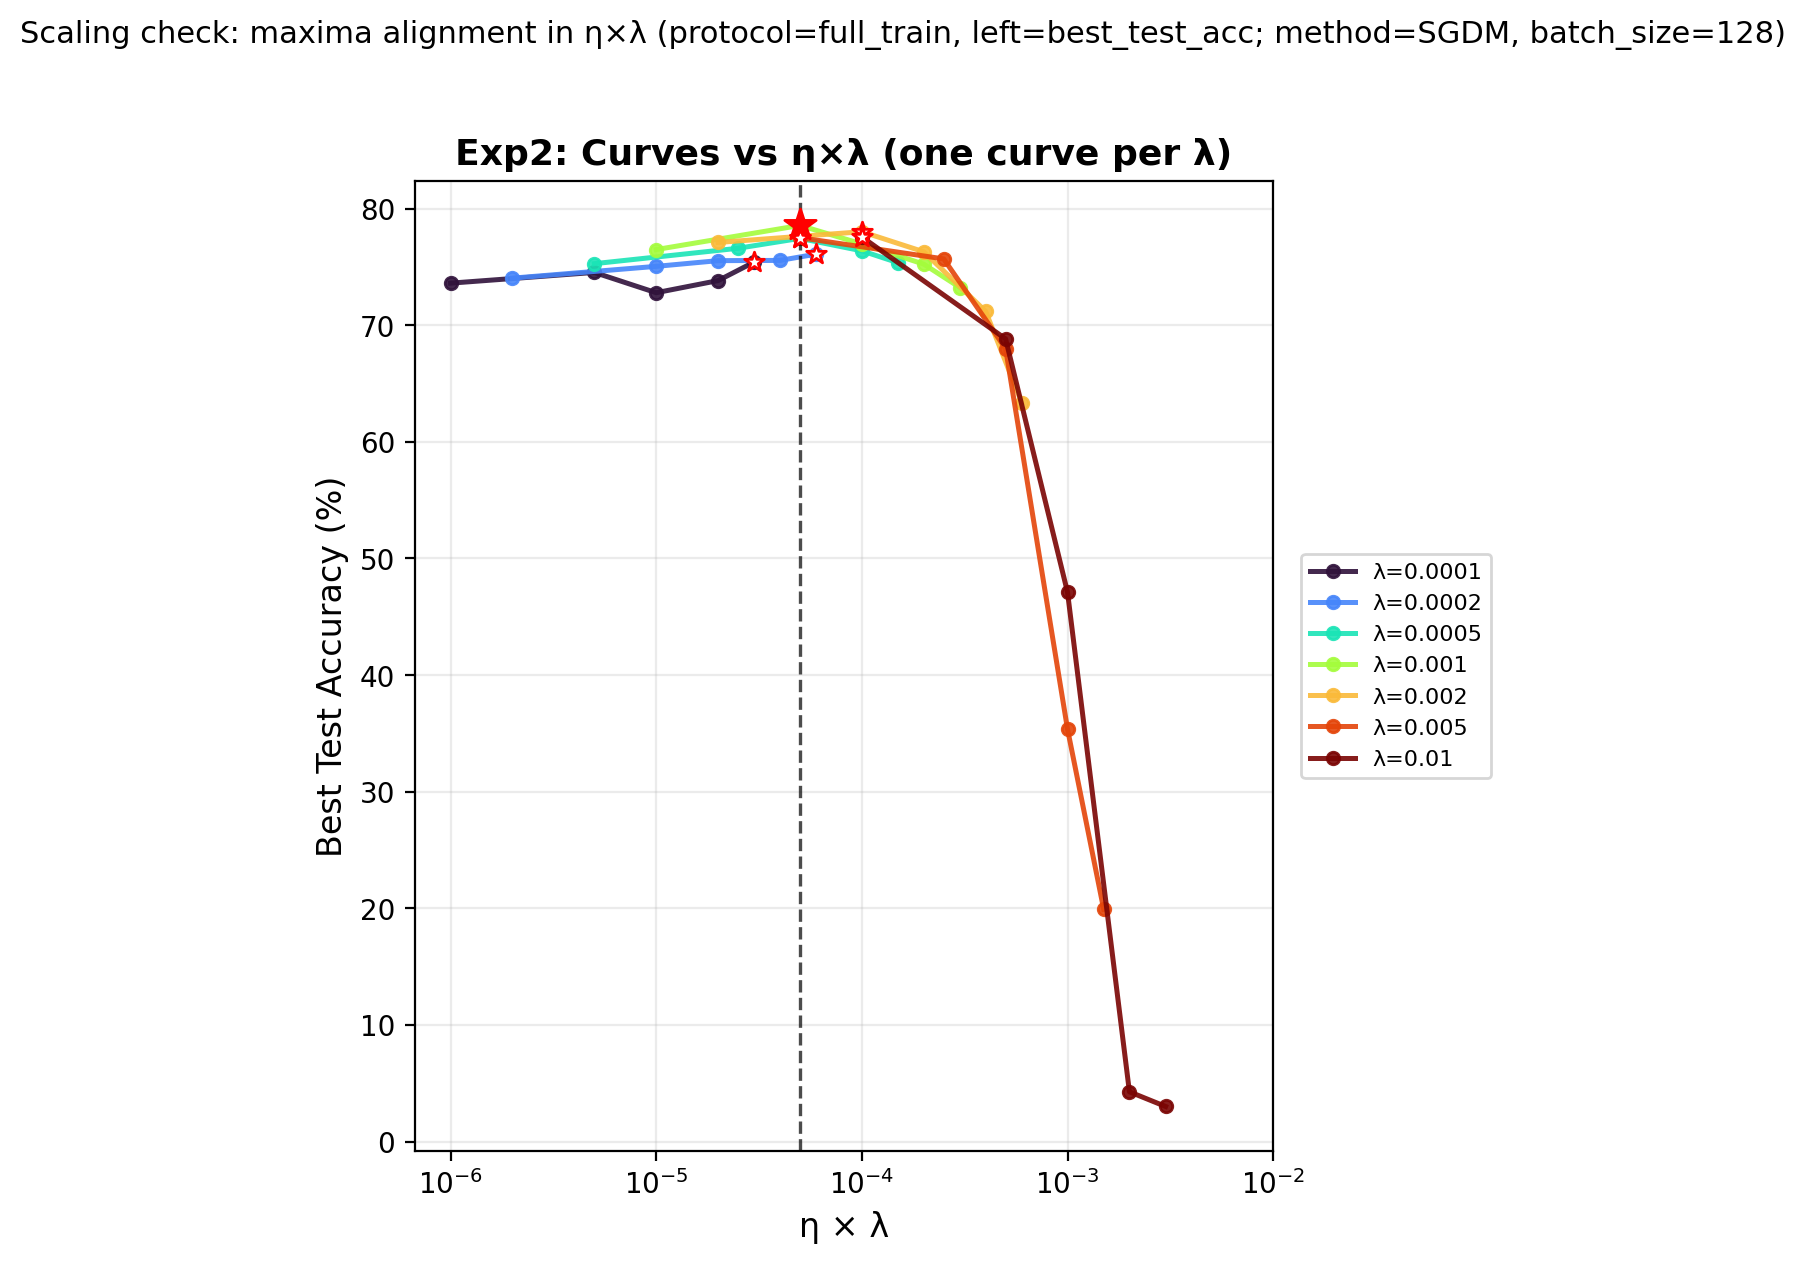
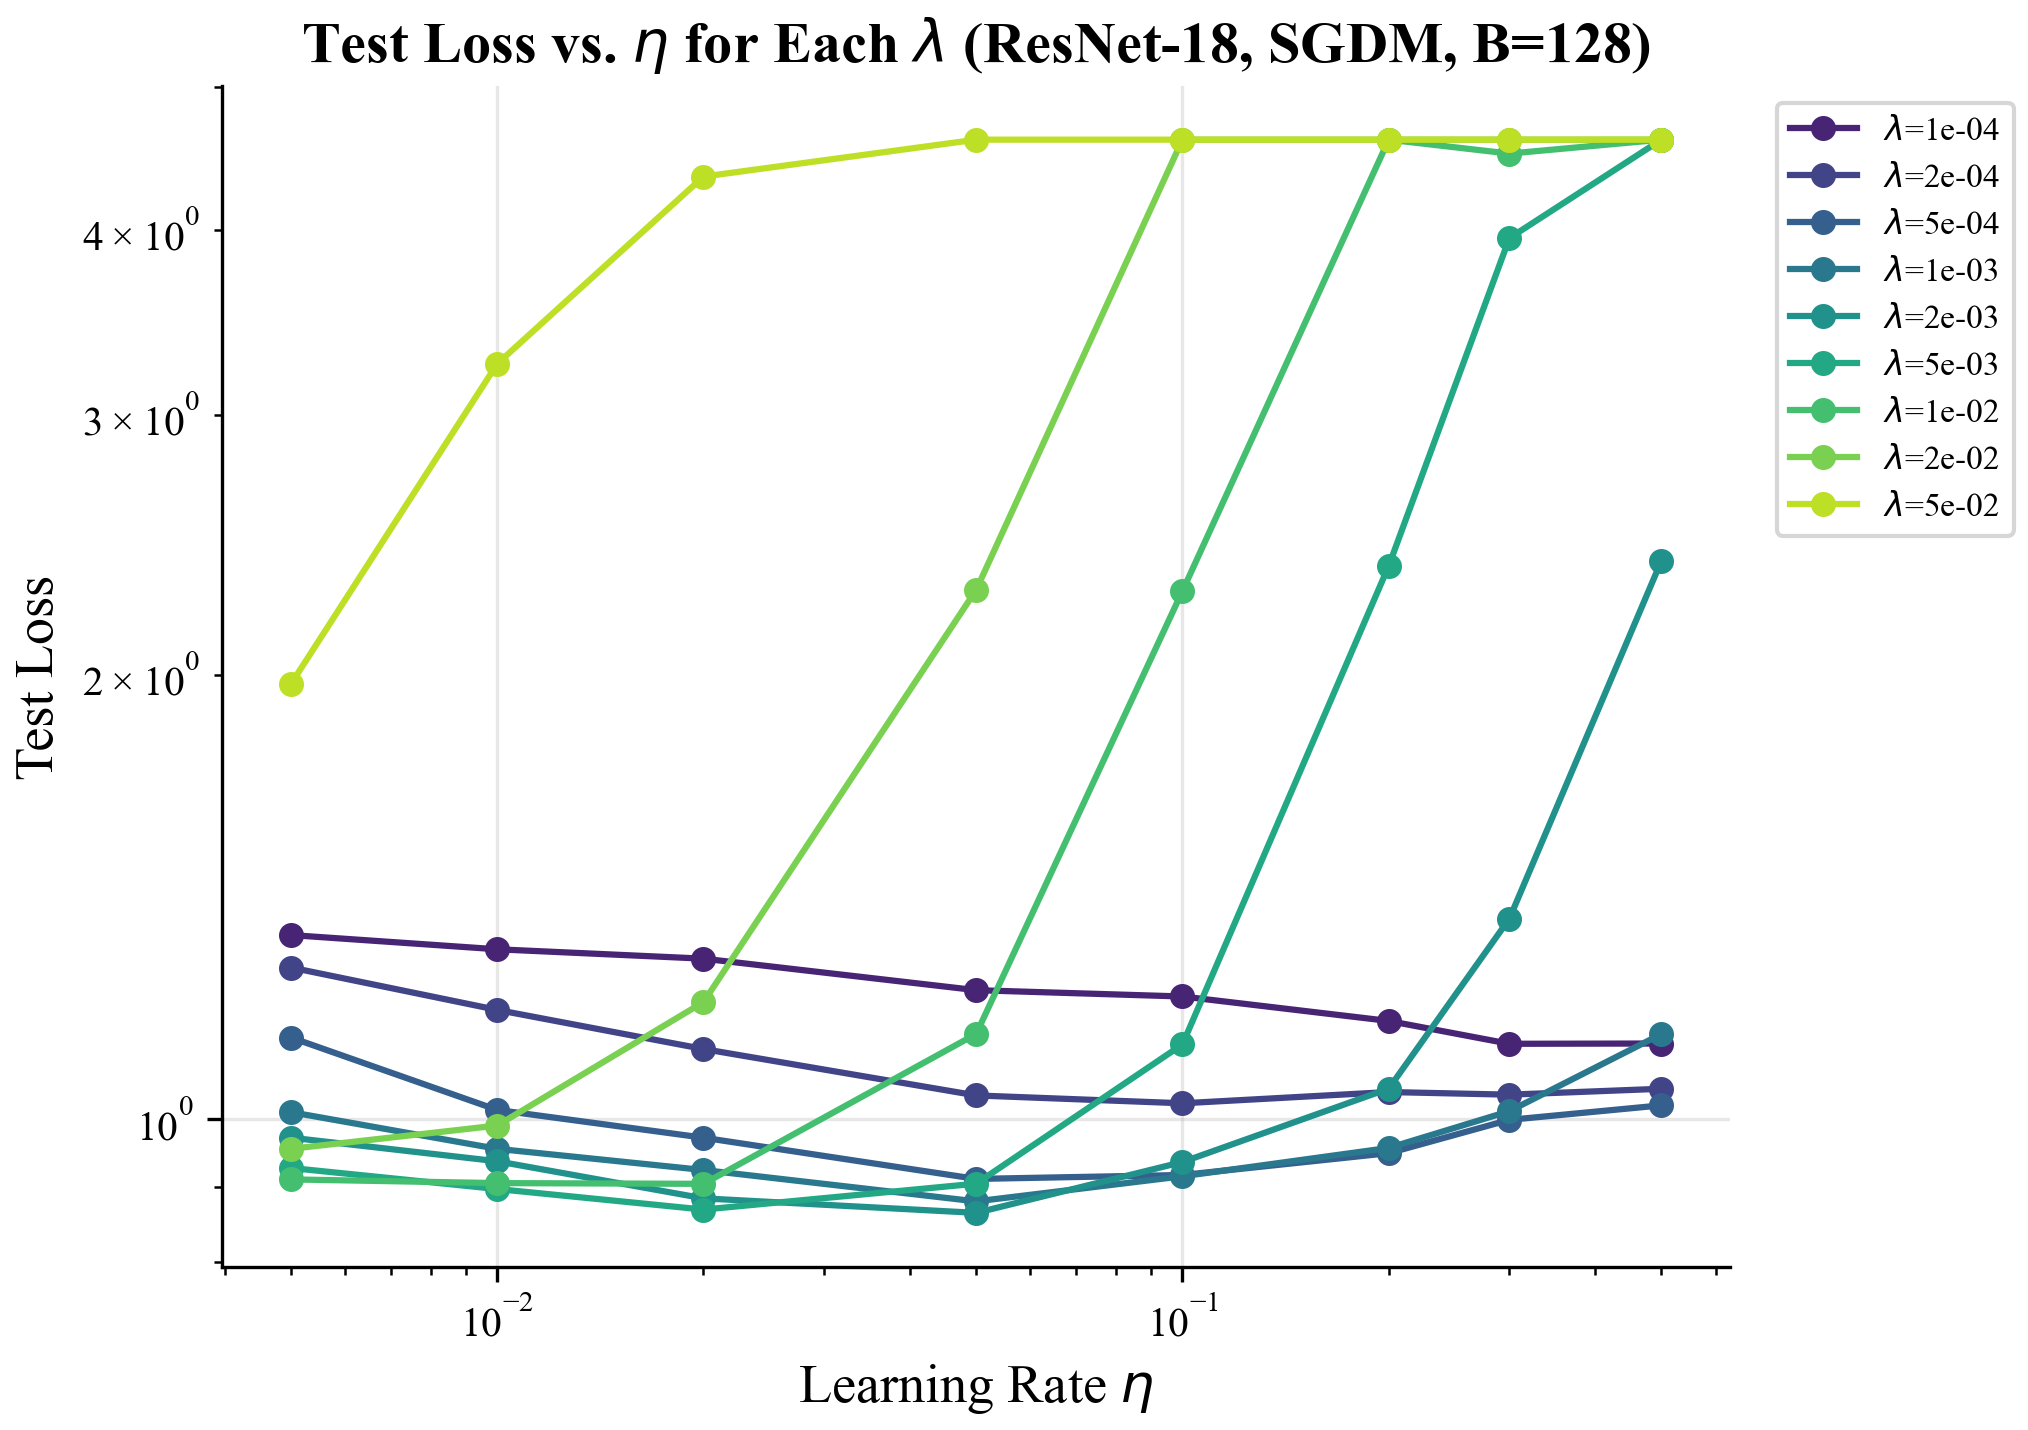
temp update

diff --git a/rebuttal/generate_figures.py b/rebuttal/generate_figures.py
@@ -68,16 +68,37 @@ def load_all():
     return result
 
 
-def mean_std_df(dfs, filt_fn):
+def mean_std_df(dfs, filt_fn, metric='best_test_acc'):
     """Given list of DataFrames, filter each, group by key columns, return mean/std."""
-    filtered = [filt_fn(df) for df in dfs]
+    filtered = [filt_fn(df) for df in dfs if metric in df.columns]
+    if not filtered:
+        return pd.DataFrame()
     combined = pd.concat(filtered, ignore_index=True)
     if combined.empty:
         return combined
     group_cols = [c for c in ['method', 'batch_size', 'lr', 'wd', 'momentum'] if c in combined.columns]
-    agg = combined.groupby(group_cols)['best_test_acc'].agg(['mean', 'std', 'count']).reset_index()
+    agg = combined.groupby(group_cols)[metric].agg(['mean', 'std', 'count']).reset_index()
     agg['std'] = agg['std'].fillna(0)
     return agg
+
+
+def load_ext_data():
+    """Load extended Exp2 data (with final_test_loss) for ResNet-18."""
+    base = Path('.')
+    paths = [
+        base / 'rebuttal/results/results_resnet18_seed42_exp2_ext.csv',
+        base / 'rebuttal/results/results_resnet18_seed42_exp2_ext2.csv',
+        base / 'rebuttal/results/results_resnet18_seed123_exp2_ext.csv',
+    ]
+    dfs = []
+    for p in paths:
+        if p.exists():
+            df = pd.read_csv(p)
+            df['wd'] = df['wd'].astype(float)
+            df['lr'] = df['lr'].astype(float)
+            df['momentum'] = df['momentum'].astype(float)
+            dfs.append(df)
+    return dfs
 
 
 # ── Exp 1: Stability Boundary Ordering ──────────────────────────────────────
@@ -230,6 +251,79 @@ def plot_exp2_optimal_wd(all_data):
     print('Saved fig4_exp2_optimal_wd_vs_lr')
 
 
+EXT_LRS = [0.005, 0.01, 0.02, 0.05, 0.1, 0.2, 0.3, 0.5]
+EXT_WDS = [1e-4, 2e-4, 5e-4, 1e-3, 2e-3, 5e-3, 1e-2, 2e-2, 5e-2]
+
+
+def filt_exp2_ext(df):
+    sub = df[(df['method'].isin(['SGDM', 'SGDM+WD'])) & (df['batch_size'] == 128)].copy()
+    sub = sub[sub['lr'].isin(EXT_LRS) & sub['wd'].isin(EXT_WDS)]
+    return sub
+
+
+def plot_exp2_test_loss_curves(ext_dfs):
+    """Reviewer 9i84: test loss vs η for each λ, extended grid, ResNet-18 only."""
+    fig, ax = plt.subplots(figsize=(7, 5))
+    wd_colors = plt.cm.viridis(np.linspace(0.1, 0.9, len(EXT_WDS)))
+
+    agg = mean_std_df(ext_dfs, filt_exp2_ext, metric='final_test_loss')
+    if agg.empty:
+        print('No ext data available for test loss plot')
+        plt.close(fig)
+        return
+
+    for i, wd in enumerate(EXT_WDS):
+        sub = agg[np.isclose(agg['wd'], wd)].sort_values('lr')
+        if sub.empty:
+            continue
+        ax.plot(sub['lr'], sub['mean'],
+                marker='o', color=wd_colors[i],
+                label=f'$\\lambda$={wd:.0e}', linewidth=1.5, markersize=5)
+
+    ax.set_xscale('log')
+    ax.set_yscale('log')
+    ax.set_xlabel(r'Learning Rate $\eta$')
+    ax.set_ylabel('Test Loss')
+    ax.set_title('Test Loss vs. $\\eta$ for Each $\\lambda$ (ResNet-18, SGDM, B=128)',
+                 fontweight='bold')
+    ax.legend(bbox_to_anchor=(1.02, 1), loc='upper left', fontsize=8)
+    fig.tight_layout()
+    fig.savefig(OUT / 'response_to_reviewer_9i84.png')
+    plt.close(fig)
+    print('Saved response_to_reviewer_9i84')
+
+
+def plot_exp2_scaling_curves_loss(ext_dfs):
+    """Original format but with test loss y-axis. ResNet-18 only (others lack test loss)."""
+    fig, ax = plt.subplots(figsize=(7, 5))
+    wd_colors = plt.cm.viridis(np.linspace(0.1, 0.9, len(EXP2_WDS)))
+
+    agg = mean_std_df(ext_dfs, filt_exp2, metric='final_test_loss')
+    if agg.empty:
+        print('No data for scaling curves loss')
+        plt.close(fig)
+        return
+
+    for i, wd in enumerate(EXP2_WDS):
+        sub = agg[np.isclose(agg['wd'], wd)].sort_values('lr')
+        if sub.empty:
+            continue
+        ax.plot(sub['lr'], sub['mean'],
+                marker='o', color=wd_colors[i],
+                label=f'$\\lambda$={wd:.0e}', linewidth=1.5, markersize=5)
+
+    ax.set_xscale('log')
+    ax.set_xlabel(r'Learning Rate $\eta$')
+    ax.set_ylabel('Test Loss')
+    ax.set_title(r'Test Loss vs. $\eta$ for Each $\lambda$ (ResNet-18, SGDM, B=128)',
+                 fontweight='bold')
+    ax.legend(bbox_to_anchor=(1.02, 1), loc='upper left', fontsize=8)
+    fig.tight_layout()
+    fig.savefig(OUT / 'exp2_scaling_curves_loss.png')
+    plt.close(fig)
+    print('Saved exp2_scaling_curves_loss')
+
+
 # ── Exp 3: Batch Size Scaling ───────────────────────────────────────────────
 EXP3_BS = [64, 128, 256, 512]
 EXP3_LR_MAP = {64: 0.05, 128: 0.1, 256: 0.2, 512: 0.4}
@@ -315,6 +409,43 @@ def plot_exp3_optimal_wd(all_data):
     print('Saved fig6_exp3_optimal_wd_vs_bs')
 
 
+# ── Exp 3: λ*×η vs Batch Size ────────────────────────────────────────────────
+def plot_exp3_lambda_eta_product(all_data):
+    """Show that optimal λ*×η increases with batch size."""
+    fig, ax = plt.subplots(figsize=(6, 4))
+
+    for arch, dfs in all_data.items():
+        agg = mean_std_df(dfs, filt_exp3)
+        if agg.empty:
+            continue
+        products = []
+        for bs in EXP3_BS:
+            lr = EXP3_LR_MAP[bs]
+            sub = agg[(agg['batch_size'] == bs) & np.isclose(agg['lr'], lr)]
+            if not sub.empty:
+                best_idx = sub['mean'].idxmax()
+                opt_wd = sub.loc[best_idx, 'wd']
+                products.append((bs, opt_wd * lr))
+        if products:
+            bss, prods = zip(*products)
+            ax.plot(bss, prods, marker='o', label=arch, linewidth=2, markersize=7,
+                    color=ARCH_COLORS[arch])
+
+    ax.set_xscale('log', base=2)
+    ax.set_yscale('log')
+    ax.set_xlabel('Batch Size B')
+    ax.set_ylabel(r'$\lambda \times \eta$')
+    ax.set_title(r'$\lambda \times \eta$ Increases with Batch Size',
+                 fontweight='bold')
+    ax.set_xticks(EXP3_BS)
+    ax.set_xticklabels([str(b) for b in EXP3_BS])
+    ax.legend()
+    fig.tight_layout()
+    fig.savefig(OUT / 'fig4_exp3_lambda_eta_product.png')
+    plt.close(fig)
+    print('Saved fig4_exp3_lambda_eta_product')
+
+
 # ── Markdown tables ──────────────────────────────────────────────────────────
 def generate_markdown_tables(all_data):
     """Write all summary tables to a single markdown file."""
@@ -386,5 +517,11 @@ if __name__ == '__main__':
     plot_exp2_optimal_wd(all_data)
     plot_exp3_per_arch(all_data)
     plot_exp3_optimal_wd(all_data)
+    plot_exp3_lambda_eta_product(all_data)
     generate_markdown_tables(all_data)
+
+    ext_dfs = load_ext_data()
+    print(f'Extended Exp2 data: {len(ext_dfs)} files loaded')
+    plot_exp2_test_loss_curves(ext_dfs)
+
     print(f'\nAll figures saved to {OUT.resolve()}')

diff --git a/rebuttal/run_rebuttal.py b/rebuttal/run_rebuttal.py
@@ -71,7 +71,7 @@ def run_single_experiment_worker(model_name, method, batch_size, lr, wd, momentu
 
     print(f"[{model_name}] {method} | BS={batch_size} | LR={lr} | WD={wd} | Mom={momentum}")
 
-    best_test_acc, final_test_acc, final_train_loss = train_model(
+    best_test_acc, final_test_acc, final_train_loss, final_test_loss = train_model(
         model, train_loader, test_loader, optimizer, scheduler,
         device, epochs=epochs, use_amp=use_amp
     )
@@ -84,7 +84,8 @@ def run_single_experiment_worker(model_name, method, batch_size, lr, wd, momentu
         'momentum': momentum,
         'final_test_acc': final_test_acc,
         'final_train_loss': final_train_loss,
-        'best_test_acc': best_test_acc
+        'best_test_acc': best_test_acc,
+        'final_test_loss': final_test_loss
     }
 
 
@@ -124,8 +125,8 @@ def experiment_set_2(gpu_ids, epochs=100, seed=42, use_amp=True, logger=None):
     batch_size = 128
     momentum = 0.9
     method = 'SGDM'
-    lr_values = [0.01, 0.05, 0.1, 0.2, 0.3]
-    wd_values = [1e-4, 2e-4, 5e-4, 1e-3, 2e-3, 5e-3, 1e-2]
+    lr_values = [0.005, 0.01, 0.02, 0.05, 0.1, 0.2, 0.3, 0.5]
+    wd_values = [1e-4, 2e-4, 5e-4, 1e-3, 2e-3, 5e-3, 1e-2, 2e-2, 5e-2]
 
     tasks = []
     for lr, wd in product(lr_values, wd_values):
@@ -174,7 +175,8 @@ def save_results(results, output_file, logger=None):
     if not results:
         return
     fieldnames = ['method', 'batch_size', 'lr', 'wd', 'momentum',
-                  'final_test_acc', 'final_train_loss', 'best_test_acc']
+                  'final_test_acc', 'final_train_loss', 'best_test_acc',
+                  'final_test_loss']
     file_exists = os.path.exists(output_file)
     Path(output_file).parent.mkdir(parents=True, exist_ok=True)
     with open(output_file, 'a', newline='') as f:
@@ -203,6 +205,8 @@ def main():
     parser.add_argument('--use_amp', action='store_true', default=True)
     parser.add_argument('--workers_per_gpu', type=int, default=1,
                         help='Number of parallel workers per GPU (increase for low-utilization models)')
+    parser.add_argument('--suffix', type=str, default='',
+                        help='Suffix appended to output filename (e.g. "_ext" -> results_resnet18_seed42_ext.csv)')
     args = parser.parse_args()
 
     global WORKERS_PER_GPU
@@ -217,7 +221,7 @@ def main():
         gpu_ids = []
 
     output_dir = Path(__file__).resolve().parent / 'results'
-    output_file = output_dir / f'results_{args.model}_seed{args.seed}.csv'
+    output_file = output_dir / f'results_{args.model}_seed{args.seed}{args.suffix}.csv'
 
     logger = get_logger(f"rebuttal_{args.model}_s{args.seed}_exp{args.experiment}")
     logger.info(f"Model: {args.model} | Seed: {args.seed} | Experiment: {args.experiment}")

diff --git a/wd_core/utils.py b/wd_core/utils.py
@@ -116,6 +116,7 @@ def train_model(model, train_loader, test_loader, optimizer, scheduler,
     best_test_acc = 0.0
     final_test_acc = 0.0
     final_train_loss = 0.0
+    final_test_loss = 0.0
 
     for epoch in range(epochs):
         train_loss = train_epoch(model, train_loader, optimizer, scheduler, device, use_amp)
@@ -127,13 +128,14 @@ def train_model(model, train_loader, test_loader, optimizer, scheduler,
         if epoch == epochs - 1:
             final_test_acc = test_acc
             final_train_loss = train_loss
+            final_test_loss = test_loss
 
         # Only log at intervals or at the end
         if (epoch + 1) % log_interval == 0 or epoch == epochs - 1:
             print(f"Epoch {epoch+1}/{epochs} | Train Loss: {train_loss:.4f} | "
                   f"Test Loss: {test_loss:.4f} | Test Acc: {test_acc:.2f}% | Best Acc: {best_test_acc:.2f}%")
 
-    return best_test_acc, final_test_acc, final_train_loss
+    return best_test_acc, final_test_acc, final_train_loss, final_test_loss
 
 
 def save_checkpoint(model, optimizer, scheduler, epoch, metrics, filepath):

diff --git a/scripts/train.py b/scripts/train.py
@@ -99,7 +99,7 @@ def main():
     print("="*60 + "\n")
 
     # Train
-    best_test_acc, final_test_acc, final_train_loss = train_model(
+    best_test_acc, final_test_acc, final_train_loss, final_test_loss = train_model(
         model, train_loader, test_loader, optimizer, scheduler,
         device, epochs=args.epochs, use_amp=args.use_amp
     )
